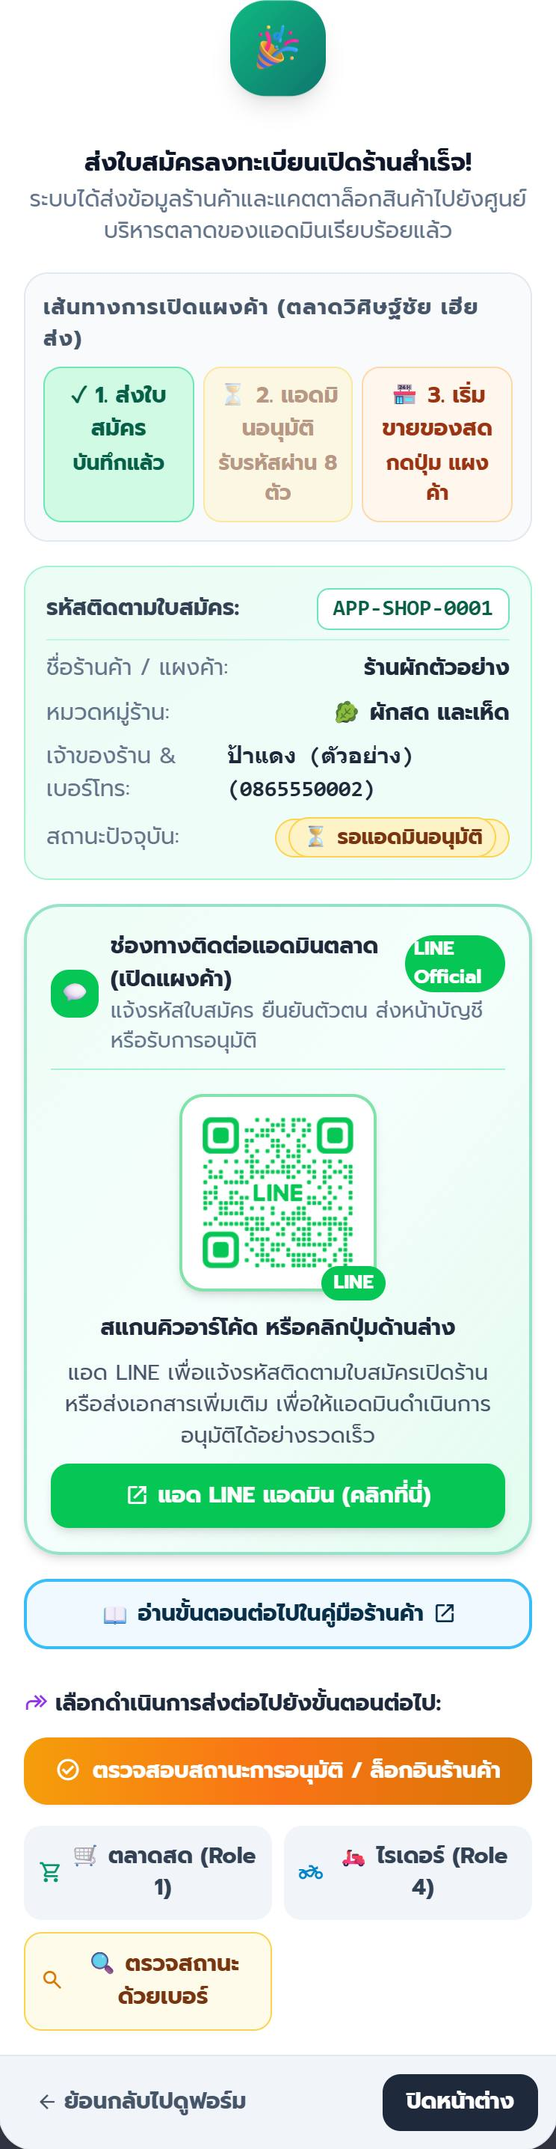
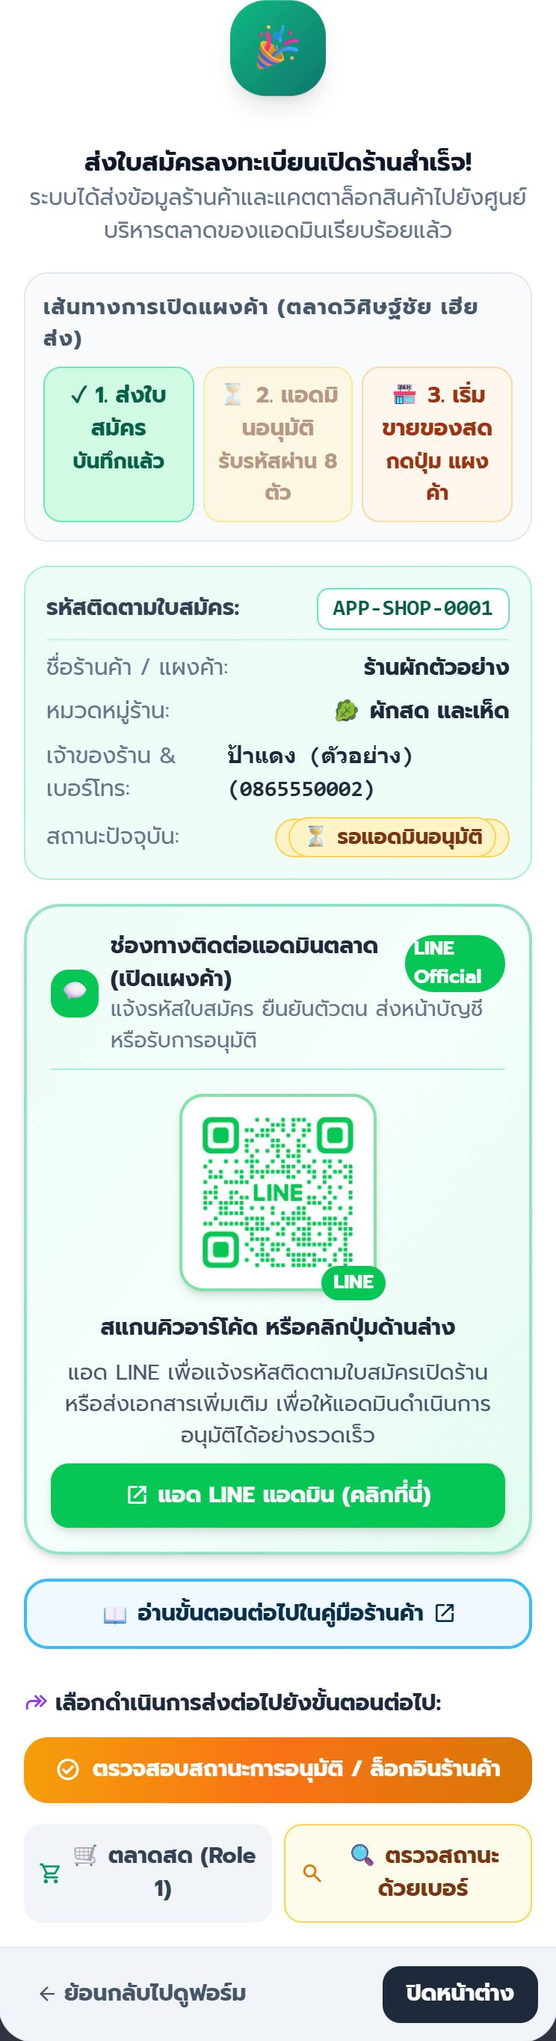
fix(money): price x qty everywhere, require merchant bank account
Owner decisions 2026-09-24:
- money used the unit price and forgot the quantity in many places:
  hub payout to shops (shops were underpaid), out-of-stock refunds
  (customer refunded 1 unit of 2), rider change envelope, receipt
  subtotal, tracking list. New orderItemLineTotal() = price x qty,
  used by all of them and by merchantStallItemsTotal()
- merchant form: main bank account is now required and checked
  (bank 10-15 digits, PromptPay 10/13/15) for new and edited shops
- remove the rider (Role 4) button from the shop success page
- guide-merchant.html updated; test order-money-qty.test.js (45)
- bump app.js?v=10.56

Changed region(s): [[0.0309, 0.0, 0.9583, 0.9971], [0.2164, 0.9659, 0.4328, 0.9971], [0.1237, 0.9659, 0.1855, 0.9971]]

diff --git a/app.js b/app.js
@@ -12946,8 +12946,7 @@ function renderTrackingScreen() {
         order.stalls.forEach(s => {
             (s.items || []).forEach(item => {
                 if (item.outOfStock) {
-                    const price = item.actualPrice !== undefined ? item.actualPrice : item.price;
-                    refundCashTotal += price;
+                    refundCashTotal += orderItemLineTotal(item);
                     outOfStockCount++;
                 }
             });
@@ -13028,13 +13027,14 @@ function renderTrackingScreen() {
         if (stall.items && stall.items.length > 0) {
             itemsListHtml = `<div class="mt-2 pt-2 border-t border-slate-100 space-y-1.5">`;
             stall.items.forEach(item => {
-                const itemPrice = item.actualPrice !== undefined ? item.actualPrice : item.price;
+                const itemPrice = orderItemLineTotal(item);   // ราคา x จำนวน
                 const isOOS = item.outOfStock || false;
                 itemsListHtml += `
                     <div class="flex items-center justify-between text-xs py-0.5 ${isOOS ? 'text-rose-700 bg-rose-50/50 px-2 py-1 rounded-lg' : 'text-slate-700'}">
                         <div class="flex items-center gap-1.5">
                             <span class="text-xs ${isOOS ? 'text-rose-500 font-bold' : 'text-emerald-600'}">${isOOS ? '✕' : '✓'}</span>
                             <span class="${isOOS ? 'line-through text-slate-400 font-medium' : 'font-semibold'}">${escapeHtml(item.name)}</span>
+                            <span class="text-slate-400">x${Number(item.qty || item.quantity || 1)}</span>
                             ${isOOS ? '<span class="text-[9px] bg-rose-100 text-rose-700 px-1.5 py-0.2 rounded font-black">ของหมด • คืนเงินสดใส่ซอง</span>' : ''}
                         </div>
                         <span class="font-bold ${isOOS ? 'text-rose-600' : 'text-slate-800'} text-xs">
@@ -13055,7 +13055,7 @@ function renderTrackingScreen() {
                         </div>
                         <div>
                             <div class="font-extrabold text-slate-800 text-xs leading-tight">${escapeHtml(stall.name)}</div>
-                            <div class="text-[10px] text-slate-400 mt-0.5 font-medium">จำนวน ${stall.itemsCount} รายการ ${oosItems.length > 0 ? `<span class="text-rose-600 font-bold">(หมด ${oosItems.length} คืน ฿${oosItems.reduce((s,i)=>s+(i.actualPrice||i.price),0)})</span>` : ''}</div>
+                            <div class="text-[10px] text-slate-400 mt-0.5 font-medium">จำนวน ${stall.itemsCount} รายการ ${oosItems.length > 0 ? `<span class="text-rose-600 font-bold">(หมด ${oosItems.length} คืน ฿${oosItems.reduce((s,i)=>s+orderItemLineTotal(i),0)})</span>` : ''}</div>
                         </div>
                     </div>
                     ${statusBadge}
@@ -14112,7 +14112,7 @@ function openReceiptModal() {
         let subtotal = 0;
         order.stalls.forEach(stall => {
             (stall.items || []).forEach(item => {
-                const price = item.actualPrice !== undefined ? item.actualPrice : item.price;
+                const price = orderItemLineTotal(item);   // ราคา x จำนวน (เดิมรวมแค่ราคาต่อหน่วย)
                 subtotal += price;
                 const isOOS = item.outOfStock || false;
                 itemsHtml += `
@@ -14419,10 +14419,17 @@ window.updateMerchantSettlementBadge = updateMerchantSettlementBadge;
 function merchantStallItemsTotal(items) {
     return (Array.isArray(items) ? items : []).reduce((sum, it) => {
         if (!it || it.outOfStock) return sum;
-        const p = Number(it.actualPrice !== undefined ? it.actualPrice : (it.price || 0));
-        const q = Number(it.qty || it.quantity || 1);
-        return sum + (p * q);
+        return sum + orderItemLineTotal(it);
     }, 0);
+}
+
+// เงินของสินค้า 1 บรรทัดในออเดอร์ = ราคาต่อหน่วย (หรือราคาชั่งจริง) x จำนวน
+// ใช้ทั้งตอนคิดยอดขาย และตอนคิดเงินคืนลูกค้าเมื่อของหมด (เดิมหลายจุดลืมคูณจำนวน: หมด 2 กำ คืนเงินแค่ 1 กำ)
+function orderItemLineTotal(it) {
+    if (!it) return 0;
+    const p = Number(it.actualPrice !== undefined ? it.actualPrice : (it.price || 0)) || 0;
+    const q = Number(it.qty || it.quantity || 1) || 1;
+    return p * q;
 }
 
 function renderMerchantSettlement() {
@@ -26035,7 +26042,7 @@ function renderHubPickingList() {
         order.stalls.forEach(stall => {
             (stall.items || []).forEach(item => {
                 if (item.outOfStock) {
-                    const price = item.actualPrice !== undefined ? item.actualPrice : item.price;
+                    const price = orderItemLineTotal(item);
                     refundCashTotal += price;
                     outOfStockItems.push({ stallName: stall.name, itemName: item.name, price: price });
                 }
@@ -26065,7 +26072,7 @@ function renderHubPickingList() {
                             </label>
                             <div class="flex items-center gap-1.5 shrink-0">
                                 ${isOutOfStock ? `
-                                    <span class="text-[9px] text-rose-700 bg-rose-100 border border-rose-200 px-2 py-0.5 rounded-full font-bold">⚠ หมด คืน ฿${actualPrice}</span>
+                                    <span class="text-[9px] text-rose-700 bg-rose-100 border border-rose-200 px-2 py-0.5 rounded-full font-bold">⚠ หมด คืน ฿${orderItemLineTotal(item)}</span>
                                     <button type="button" onclick="toggleHubItemOutOfStock(${sIdx}, ${iIdx})" class="px-2 py-0.5 bg-slate-100 hover:bg-slate-200 text-slate-700 rounded-lg text-[10px] font-bold active:scale-95 transition-all">กู้คืน</button>
                                 ` : `
                                     ${isPicked ? '<span class="text-[10px] text-emerald-700 bg-emerald-100 px-1.5 py-0.5 rounded-full font-bold">✓ พร้อม</span>' : '<span class="text-[10px] text-slate-400">รอหยิบ</span>'}
@@ -26278,7 +26285,7 @@ function toggleHubItemOutOfStock(stallIndex, itemIndex) {
     if (!item) return;
 
     item.outOfStock = !item.outOfStock;
-    const price = item.actualPrice !== undefined ? item.actualPrice : item.price;
+    const price = orderItemLineTotal(item);   // เงินทอนใส่ซอง = ราคา x จำนวน
 
     if (item.outOfStock) {
         item.picked = false;
@@ -26295,8 +26302,7 @@ function toggleHubItemOutOfStock(stallIndex, itemIndex) {
     state.activeOrder.stalls.forEach(s => {
         (s.items || []).forEach(it => {
             if (it.outOfStock) {
-                const pr = it.actualPrice !== undefined ? it.actualPrice : it.price;
-                refundCashTotal += pr;
+                refundCashTotal += orderItemLineTotal(it);
             }
         });
     });
@@ -26328,7 +26334,7 @@ function sendOutOfStockLineNotice() {
     if (order.stalls) {
         order.stalls.forEach(s => {
             (s.items || []).forEach(i => {
-                if (i.outOfStock) oosList.push(`${i.name} (฿${i.actualPrice !== undefined ? i.actualPrice : i.price})`);
+                if (i.outOfStock) oosList.push(`${i.name} x${i.qty || 1} (฿${orderItemLineTotal(i)})`);
             });
         });
     }
@@ -26468,7 +26474,7 @@ function goToRiderTrackingScreen() {
             state.activeOrder.stalls.forEach(s => {
                 (s.items || []).forEach(it => {
                     if (it.outOfStock) {
-                        refundTotal += (it.actualPrice !== undefined ? it.actualPrice : it.price);
+                        refundTotal += orderItemLineTotal(it);
                     }
                 });
             });
@@ -26579,7 +26585,7 @@ function renderHubSettlement() {
             const meta = (typeof findStallInfo === "function") ? findStallInfo(stall.stallId, stall.name) : {};
             const activeItems = (stall.items || []).filter(item => !item.outOfStock);
             const oosItems = (stall.items || []).filter(item => item.outOfStock);
-            const stallItemsTotal = activeItems.reduce((sum, item) => sum + (item.actualPrice !== undefined ? item.actualPrice : item.price), 0);
+            const stallItemsTotal = merchantStallItemsTotal(stall.items);
             const stallGP = Math.round(stallItemsTotal * (gpRate / 100));
             const stallPayout = Math.max(0, stallItemsTotal - stallGP);
             const stallPhone = meta.phone || "089-123-4567";
@@ -27283,7 +27289,7 @@ function renderRiderScreen() {
             const items = Array.isArray(s.items) ? s.items : Object.values(s.items || {});
             items.forEach(it => {
                 if (it && it.outOfStock) {
-                    refundCashTotal += (it.actualPrice !== undefined ? it.actualPrice : it.price) || 0;
+                    refundCashTotal += orderItemLineTotal(it);
                 }
             });
         });
@@ -29473,6 +29479,24 @@ function deleteMerchantCatalogRow(btn) {
     }
 }
 
+// ตรวจบัญชีหลักที่ 1 ของร้าน คืน null ถ้าใช้ได้ หรือ { focusId, message } ถ้าไม่ครบ/ผิดรูปแบบ
+// กติกาเดียวกับบัญชีไรเดอร์: พร้อมเพย์ = เบอร์ 10 หลัก / เลขบัตร 13 หลัก / e-Wallet 15 หลัก, ธนาคาร = ตัวเลข 10-15 หลัก
+function merchantBankAccountProblem(bankName, accountNoRaw, accountNameRaw) {
+    const accountNo = String(accountNoRaw || "").replace(/[-\s]/g, "");
+    const accountName = String(accountNameRaw || "").trim();
+    if (!accountNo) return { focusId: "m-bank-account-no", message: "⚠ กรุณากรอกเลขที่บัญชีรับเงิน (บัญชีหลักที่ 1)\n\nฮับจะโอนเงินค่าขายเข้าบัญชีนี้" };
+    const isPP = String(bankName || "").startsWith("พร้อมเพย์");
+    const okNo = /^\d+$/.test(accountNo) && (isPP ? [10, 13, 15].includes(accountNo.length) : (accountNo.length >= 10 && accountNo.length <= 15));
+    if (!okNo) {
+        return { focusId: "m-bank-account-no", message: isPP
+            ? "⚠ เลขพร้อมเพย์ต้องเป็นเบอร์มือถือ 10 หลัก หรือเลขบัตรประชาชน 13 หลัก"
+            : "⚠ เลขที่บัญชีธนาคารต้องเป็นตัวเลข 10-15 หลัก" };
+    }
+    if (!accountName) return { focusId: "m-bank-account-name", message: "⚠ กรุณากรอกชื่อบัญชี (ชื่อ-นามสกุลเจ้าของบัญชี ตามสมุดบัญชี)" };
+    return null;
+}
+window.merchantBankAccountProblem = merchantBankAccountProblem;
+
 async function saveMerchantStallData() {
     const submitBtn = document.getElementById("merchant-submit-footer-btn");
     const origSubmitHtml = submitBtn ? submitBtn.innerHTML : '<span class="material-symbols-outlined text-sm font-bold">save</span><span>บันทึกการแก้ไขข้อมูลร้านค้า 💾</span>';
@@ -29529,6 +29553,24 @@ async function saveMerchantStallData() {
         if (!stallName || !phone) {
             alert("กรุณากรอกข้อมูลสำคัญให้ครบถ้วน: ชื่อร้านค้า และเบอร์โทรศัพท์ผู้ติดต่อ");
             switchMerchantPortalTab("tab-info");
+            return;
+        }
+
+        // บัญชีรับเงินค่าขาย (บัญชีหลักที่ 1) ต้องครบและถูกรูปแบบ ไม่งั้นฮับโอนเงินให้ร้านไม่ได้ (เจ้าของตัดสินใจ 2026-09-24)
+        const bankProblem = merchantBankAccountProblem(
+            document.getElementById("m-bank-name")?.value || "",
+            document.getElementById("m-bank-account-no")?.value || "",
+            document.getElementById("m-bank-account-name")?.value || ""
+        );
+        if (bankProblem) {
+            alert(bankProblem.message);
+            switchMerchantPortalTab("tab-info");
+            const bad = document.getElementById(bankProblem.focusId);
+            if (bad) {
+                bad.scrollIntoView({ behavior: "smooth", block: "center" });
+                bad.focus();
+                bad.classList.add("border-rose-500", "ring-2", "ring-rose-400", "bg-rose-50");
+            }
             return;
         }
 

diff --git a/firebase-rules/tests/order-money-qty.test.js b/firebase-rules/tests/order-money-qty.test.js
@@ -1,0 +1,80 @@
+// ทดสอบงาน 2026-09-24 (หลังเจ้าของตัดสินใจ 3 ข้อ):
+// (ก) เงินของสินค้าต้องเป็น ราคา x จำนวน ทุกจุด: ยอดขายร้าน, เงินโอนให้ร้าน (ฮับ), เงินคืนลูกค้าเมื่อของหมด, ใบเสร็จ, หน้าติดตาม
+//     เดิมหลายจุดลืมคูณจำนวน: สั่ง 2 กำ หมด -> คืนเงินแค่ 1 กำ, ฮับโอนเงินให้ร้านขาดไป
+// (ข) ฟอร์มเปิดร้านบังคับกรอกบัญชีรับเงินหลัก (merchantBankAccountProblem)
+// (ค) หน้าส่งใบสมัครเปิดร้านสำเร็จไม่มีปุ่ม "ไรเดอร์ (Role 4)" แล้ว
+const fs = require("fs");
+const path = require("path");
+const vm = require("vm");
+const root = path.join(__dirname, "..", "..");
+const norm = s => s.replace(/\r\n/g, "\n");
+const appSrc = norm(fs.readFileSync(path.join(root, "app.js"), "utf8"));
+const htmlSrc = norm(fs.readFileSync(path.join(root, "index.html"), "utf8"));
+
+let fail = 0;
+const ok = (c, m) => { console.log((c ? "PASS " : "FAIL ") + m); if (!c) fail++; };
+function fn(name) {
+    const start = appSrc.indexOf("function " + name + "(");
+    if (start < 0) throw new Error("not found: " + name);
+    let i = appSrc.indexOf("{", start), d = 0;
+    for (; i < appSrc.length; i++) { if (appSrc[i] === "{") d++; else if (appSrc[i] === "}" && --d === 0) break; }
+    return appSrc.slice(start, i + 1);
+}
+const ctx = {};
+vm.createContext(ctx);
+["orderItemLineTotal", "merchantStallItemsTotal", "merchantBankAccountProblem"].forEach(n => vm.runInContext(fn(n), ctx));
+
+console.log("== (ก) ราคา x จำนวน ==");
+const line = ctx.orderItemLineTotal;
+ok(line({ price: 20, qty: 2 }) === 40, "ผักบุ้ง 20 x 2 = 40");
+ok(line({ price: 20 }) === 20, "ไม่มีจำนวน = 1 หน่วย");
+ok(line({ price: 100, actualPrice: 110, qty: 2 }) === 220, "ใช้ราคาชั่งจริงต่อหน่วยถ้ามี");
+ok(line({ price: "25", quantity: "3" }) === 75, "รับค่าที่เป็นตัวหนังสือได้");
+ok(line(null) === 0 && line({}) === 0, "ข้อมูลว่างไม่พัง");
+ok(ctx.merchantStallItemsTotal([{ price: 20, qty: 2 }, { price: 25, qty: 2, outOfStock: true }]) === 40, "ยอดขายร้านไม่นับของหมด");
+
+const bodies = {
+    "renderHubSettlement (ฮับโอนเงินให้ร้าน)": fn("renderHubSettlement"),
+    "goToRiderTrackingScreen (เงินคืน)": fn("goToRiderTrackingScreen"),
+    "renderRiderScreen (ซองเงินทอนของไรเดอร์)": fn("renderRiderScreen"),
+    "renderTrackingScreen (หน้าติดตามลูกค้า)": fn("renderTrackingScreen"),
+    "renderHubPickingList (หน้าหยิบของฮับ)": fn("renderHubPickingList"),
+    "toggleHubItemOutOfStock (ฮับแจ้งของหมด)": fn("toggleHubItemOutOfStock"),
+    "sendOutOfStockLineNotice (ข้อความ LINE ของหมด)": fn("sendOutOfStockLineNotice"),
+    "openReceiptModal (ใบเสร็จ)": fn("openReceiptModal")
+};
+Object.entries(bodies).forEach(([label, body]) => {
+    ok(/orderItemLineTotal\(|merchantStallItemsTotal\(/.test(body), `${label} ใช้ตัวคิดเงิน ราคา x จำนวน`);
+    // รูปแบบเก่าที่คิดเงินจากราคาต่อหน่วยตรง ๆ แล้วบวกเข้ายอด/เงินคืน
+    // "+= price" ใช้ได้เฉพาะเมื่อ price มาจาก orderItemLineTotal (ราคา x จำนวน) แล้ว
+    const addsVar = /(refundCashTotal|refundTotal|subtotal)\s*\+=\s*(price|pr)\s*;/.test(body);
+    const varIsLineTotal = /const (price|pr) = orderItemLineTotal\(/.test(body);
+    ok(!addsVar || varIsLineTotal, `${label} ไม่บวกราคาต่อหน่วยเข้ายอดเงินแบบเดิม`);
+    ok(!/refund\w*\s*\+=\s*\((it|item|i)\.actualPrice !== undefined/.test(body), `${label} ไม่คิดเงินคืนจากราคาต่อหน่วย`);
+});
+ok(!/oosItems\.reduce\(\(s,i\)=>s\+\(i\.actualPrice\|\|i\.price\),0\)/.test(appSrc), "ป้ายเงินคืนในหน้าติดตามคูณจำนวนแล้ว");
+ok(/const stallItemsTotal = merchantStallItemsTotal\(stall\.items\);/.test(fn("renderHubSettlement")), "ยอดโอนให้ร้านในหน้าฮับใช้ merchantStallItemsTotal");
+
+console.log("== (ข) บังคับบัญชีรับเงินของร้าน ==");
+const bank = ctx.merchantBankAccountProblem;
+ok(bank("กสิกรไทย (KBank)", "", "ป้าแดง").focusId === "m-bank-account-no", "ไม่กรอกเลขบัญชี -> ไม่ผ่าน ชี้ไปช่องเลขบัญชี");
+ok(bank("กสิกรไทย (KBank)", "12345", "ป้าแดง").focusId === "m-bank-account-no", "เลขบัญชีสั้นเกิน -> ไม่ผ่าน");
+ok(bank("กสิกรไทย (KBank)", "123-4-56789-0", "") .focusId === "m-bank-account-name", "ไม่กรอกชื่อบัญชี -> ไม่ผ่าน ชี้ไปช่องชื่อบัญชี");
+ok(bank("กสิกรไทย (KBank)", "123-4-56789-0", "นางแดง ตัวอย่าง") === null, "เลขบัญชีธนาคาร 10 หลัก (มีขีด) + ชื่อ -> ผ่าน");
+ok(bank("พร้อมเพย์ (PromptPay)", "0812345678", "นางแดง") === null, "พร้อมเพย์เบอร์มือถือ 10 หลัก -> ผ่าน");
+ok(bank("พร้อมเพย์ (PromptPay)", "1234567890123", "นางแดง") === null, "พร้อมเพย์เลขบัตร 13 หลัก -> ผ่าน");
+ok(bank("พร้อมเพย์ (PromptPay)", "12345678901", "นางแดง") !== null, "พร้อมเพย์ 11 หลัก -> ไม่ผ่าน");
+ok(bank("กสิกรไทย (KBank)", "12345abcde", "นางแดง") !== null, "เลขบัญชีมีตัวอักษร -> ไม่ผ่าน");
+const save = fn("saveMerchantStallData");
+const iBank = save.indexOf("merchantBankAccountProblem(");
+ok(iBank > 0 && iBank < save.indexOf("if (isNewRegistration)"), "saveMerchantStallData ตรวจบัญชีก่อนบันทึก (ทั้งสมัครใหม่และแก้ไข)");
+ok(/m-bank-account-no/.test(save.slice(iBank, iBank + 400)) && /m-bank-account-name/.test(save.slice(iBank, iBank + 400)), "อ่านค่าจากช่องบัญชีหลักที่ 1 จริง");
+
+console.log("== (ค) ไม่มีปุ่มไรเดอร์ในหน้าส่งใบสมัครร้านสำเร็จ ==");
+const succ = htmlSrc.slice(htmlSrc.indexOf('id="merchant-portal-step-success"'), htmlSrc.indexOf("MERCHANT PREVIEW MODAL"));
+ok(succ.length > 1000, "เจอหน้าส่งใบสมัครสำเร็จ");
+ok(!/switchRole\('rider'\)/.test(succ) && !/<span>🛵 ไรเดอร์ \(Role 4\)<\/span>/.test(succ), "ไม่มีปุ่มสลับไปไรเดอร์แล้ว");
+ok(/openStatusCheckModal\('merchant'\)/.test(succ), "ปุ่มตรวจสถานะด้วยเบอร์ยังอยู่");
+
+console.log(fail ? `\n${fail} FAILED` : "\nALL PASSED");
+process.exit(fail ? 1 : 0);

diff --git a/guide-merchant.html b/guide-merchant.html
@@ -66,7 +66,7 @@
             <ul class="check">
                 <li><span class="box"></span><span>ชื่อร้าน และร้านขายอะไรเป็นหลัก</span></li>
                 <li><span class="box"></span><span>ชื่อ เบอร์โทร และ LINE ของผู้ติดต่อหลัก 1 คน (มีคนที่ 2 ก็ใส่ได้)</span></li>
-                <li><span class="box"></span><span><strong>บัญชีธนาคารรับเงินค่าขาย</strong> ชื่อธนาคาร เลขบัญชี และชื่อบัญชี</span></li>
+                <li><span class="box"></span><span><strong>บัญชีธนาคารรับเงินค่าขาย</strong> ชื่อธนาคาร เลขบัญชี และชื่อบัญชี <span class="tag req">ต้องมี</span></span></li>
                 <li><span class="box"></span><span><strong>สินค้าเด่น</strong> สูงสุด 10 อย่าง: ชื่อ หน่วยขาย (กก. กำ แพ็ก ฯลฯ) และราคา</span></li>
                 <li><span class="box"></span><span>สินค้าอื่น ๆ เพิ่มได้อีก 50 อย่าง <span class="tag opt">ไม่บังคับ</span></span></li>
             </ul>
@@ -74,7 +74,7 @@
 
         <!-- ================= ส่วนที่ 1 ================= -->
         <h2 class="part" id="part1">ส่วนที่ 1: กรอกใบสมัครเปิดร้านทีละข้อ</h2>
-        <p>ช่องที่มีดอกจันสีแดง <strong style="color:#d63447">*</strong> ต้องกรอกให้ครบ แม้บางช่องระบบจะยอมให้ส่งได้ แต่ถ้าข้อมูลไม่ครบ เจ้าของอาจอนุมัติให้ไม่ได้</p>
+        <p>ช่องที่มีดอกจันสีแดง <strong style="color:#d63447">*</strong> ต้องกรอกให้ครบ ถ้าข้อมูลไม่ครบ เจ้าของอาจอนุมัติให้ไม่ได้</p>
 
         <div class="step">
             <div class="step-head"><span class="num">1</span><h3>เปิดหน้าสมัคร</h3></div>
@@ -123,10 +123,10 @@
 
         <div class="step">
             <div class="step-head"><span class="num">5</span><h3>ช่องทางการรับชำระเงิน</h3></div>
-            <p>ฮับจะโอนเงินค่าขายของคุณเข้าบัญชีนี้ <strong>กรอกให้ถูกทุกตัว</strong> ถ้าผิด จะรับเงินไม่ได้</p>
+            <p>ฮับจะโอนเงินค่าขายของคุณเข้าบัญชีนี้ <strong>บัญชีหลักที่ 1 ต้องกรอก</strong> ถ้าไม่กรอก ระบบจะไม่ยอมส่งใบสมัคร และต้องกรอกให้ถูกทุกตัว ถ้าผิด จะรับเงินไม่ได้</p>
             <ol>
                 <li><strong>ธนาคาร</strong>: กดแล้วเลือกธนาคารของคุณ หรือพร้อมเพย์</li>
-                <li><strong>เลขที่บัญชี</strong>: พิมพ์ตามสมุดบัญชี</li>
+                <li><strong>เลขที่บัญชี</strong>: พิมพ์ตามสมุดบัญชี (ตัวเลข 10-15 หลัก มีขีดหรือไม่มีก็ได้) ถ้าเลือกพร้อมเพย์ ใส่เบอร์มือถือ 10 หลัก หรือเลขบัตรประชาชน 13 หลัก</li>
                 <li><strong>ชื่อบัญชี</strong>: ชื่อ-นามสกุลเจ้าของบัญชี ตามสมุดบัญชี</li>
             </ol>
             <p><strong>บัญชีสำรองที่ 2</strong> ใส่หรือไม่ใส่ก็ได้</p>
@@ -169,6 +169,10 @@
                 <thead><tr><th>ข้อความที่เห็น</th><th>ต้องทำอะไร</th></tr></thead>
                 <tbody>
                     <tr><td>กรุณากรอกข้อมูลสำคัญให้ครบถ้วน: ชื่อร้านค้า และเบอร์โทรศัพท์ผู้ติดต่อ</td><td>กลับไปหน้า 1 ใส่ชื่อร้าน และเบอร์โทรของผู้ติดต่อคนที่ 1</td></tr>
+                    <tr><td>กรุณากรอกเลขที่บัญชีรับเงิน (บัญชีหลักที่ 1)</td><td>กลับไปหน้า 1 ช่องที่ต้องแก้จะขึ้นกรอบแดง ใส่เลขบัญชีตามสมุดบัญชี</td></tr>
+                    <tr><td>เลขที่บัญชีธนาคารต้องเป็นตัวเลข 10-15 หลัก</td><td>เช็กเลขบัญชีอีกครั้ง ใส่แต่ตัวเลข</td></tr>
+                    <tr><td>เลขพร้อมเพย์ต้องเป็นเบอร์มือถือ 10 หลัก หรือเลขบัตรประชาชน 13 หลัก</td><td>เช็กเลขพร้อมเพย์อีกครั้ง</td></tr>
+                    <tr><td>กรุณากรอกชื่อบัญชี</td><td>ใส่ชื่อ-นามสกุลเจ้าของบัญชี ตามสมุดบัญชี</td></tr>
                     <tr><td>รายการสินค้า "..." ซ้ำกับสินค้า Highlight</td><td>ช่องที่ซ้ำจะขึ้นกรอบแดง ลบแถวนั้น หรือเปลี่ยนชื่อสินค้า</td></tr>
                 </tbody>
             </table>
@@ -180,7 +184,7 @@
         <div class="step">
             <div class="step-head"><span class="num">1</span><h3>จดรหัสร้านของคุณไว้</h3></div>
             <p>ส่งสำเร็จแล้วจะเห็นหน้า <strong>"ส่งใบสมัครลงทะเบียนเปิดร้านสำเร็จ!"</strong> และ <strong>รหัสติดตามใบสมัคร</strong> (ในรูปคือ APP-SHOP-0001)</p>
-            <figure class="narrow"><img src="images/guide/merchant/m11-success.jpg" width="744" height="2746" loading="lazy" alt="หน้าส่งใบสมัครสำเร็จ พร้อมรหัส APP-SHOP-0001 และช่องทาง LINE"></figure>
+            <figure class="narrow"><img src="images/guide/merchant/m11-success.jpg" width="744" height="2728" loading="lazy" alt="หน้าส่งใบสมัครสำเร็จ พร้อมรหัส APP-SHOP-0001 และช่องทาง LINE"></figure>
             <div class="warn"><p><strong>จดรหัสนี้ในกระดาษ หรือถ่ายรูปหน้าจอเก็บไว้</strong> รหัสนี้คือ <strong>รหัสร้าน</strong> ที่ใช้เข้าสู่ระบบ</p></div>
         </div>
         <div class="step">

diff --git a/firebase-rules/tests/guide-merchant.test.js b/firebase-rules/tests/guide-merchant.test.js
@@ -28,6 +28,10 @@ console.log("== ข้อความที่คู่มือยกมา ต
 [
     "กรุณากรอกข้อมูลสำคัญให้ครบถ้วน: ชื่อร้านค้า และเบอร์โทรศัพท์ผู้ติดต่อ",
     "ซ้ำกับสินค้า Highlight",
+    "กรุณากรอกเลขที่บัญชีรับเงิน (บัญชีหลักที่ 1)",
+    "เลขที่บัญชีธนาคารต้องเป็นตัวเลข 10-15 หลัก",
+    "เลขพร้อมเพย์ต้องเป็นเบอร์มือถือ 10 หลัก หรือเลขบัตรประชาชน 13 หลัก",
+    "กรุณากรอกชื่อบัญชี",
     "รหัสร้านหรือรหัสผ่านไม่ถูกต้อง",
     "ใส่รหัสผิดหลายครั้ง กรุณารออีก",
     "ใบสมัครเปิดร้านของคุณยังรอเจ้าของอนุมัติ",
@@ -77,7 +81,14 @@ const fnStart = appSrc.indexOf("function merchantStallItemsTotal(");
 ok(fnStart >= 0, "มีฟังก์ชัน merchantStallItemsTotal");
 let i = appSrc.indexOf("{", fnStart), d = 0;
 for (; i < appSrc.length; i++) { if (appSrc[i] === "{") d++; else if (appSrc[i] === "}" && --d === 0) break; }
-const ctx = {}; vm.createContext(ctx); vm.runInContext(appSrc.slice(fnStart, i + 1), ctx);
+const ctx = {}; vm.createContext(ctx);
+{   // merchantStallItemsTotal ใช้ orderItemLineTotal (ราคา x จำนวน) ต้องโหลดคู่กัน
+    const s2 = appSrc.indexOf("function orderItemLineTotal(");
+    let j = appSrc.indexOf("{", s2), d2 = 0;
+    for (; j < appSrc.length; j++) { if (appSrc[j] === "{") d2++; else if (appSrc[j] === "}" && --d2 === 0) break; }
+    vm.runInContext(appSrc.slice(s2, j + 1), ctx);
+}
+vm.runInContext(appSrc.slice(fnStart, i + 1), ctx);
 const total = ctx.merchantStallItemsTotal;
 ok(total([{ price: 20, qty: 2 }, { price: 25, qty: 1 }, { price: 25, qty: 1 }]) === 90, "ผักบุ้ง 20x2 + 25 + 25 = 90");
 ok(total([{ price: 20, qty: 2 }, { price: 25, qty: 1, outOfStock: true }]) === 40, "ของที่แจ้งหมดไม่นับเงิน");

diff --git a/index.html b/index.html
@@ -4798,11 +4798,7 @@
                                 <span class="material-symbols-outlined text-sm text-amber-600">inventory_2</span>
                                 <span>📦 ศูนย์ฮับ (Role 2)</span>
                             </button>
-                            <button type="button" onclick="closeMerchantPortalModal(); switchRole('rider');"
-                                class="p-2.5 bg-slate-100 hover:bg-slate-200 text-slate-700 font-bold rounded-xl flex items-center justify-center gap-1 active:scale-95 transition-all">
-                                <span class="material-symbols-outlined text-sm text-sky-600">two_wheeler</span>
-                                <span>🛵 ไรเดอร์ (Role 4)</span>
-                            </button>
+                            <!-- ปุ่ม "ไรเดอร์ (Role 4)" เอาออกแล้ว (เจ้าของตัดสินใจ 2026-09-24): ไม่เกี่ยวกับผู้สมัครเปิดร้าน -->
                             <button type="button"
                                 onclick="closeMerchantPortalModal(); openStatusCheckModal('merchant');"
                                 class="p-2.5 bg-amber-50 hover:bg-amber-100 text-amber-900 border border-amber-300 font-bold rounded-xl flex items-center justify-center gap-1 active:scale-95 transition-all">
@@ -7381,7 +7377,7 @@
     <!-- Firebase Config & Init -->
     <script src="firebase-config.js?v=10.24_owner_auth"></script>
     <!-- App Logic -->
-    <script src="app.js?v=10.55_merchant_guide"></script>
+    <script src="app.js?v=10.56_bank_required_qty_money"></script>
 </body>
 
 </html>

diff --git a/CLAUDE.md b/CLAUDE.md
@@ -274,6 +274,12 @@ Problem found 2026-09-21: anyone can write text into the shared database (applic
 - **Also fixed (leftovers of 5r, stall numbers removed):** the success step said "รับรหัส 6 หลัก" (now "รับรหัสผ่าน 8 ตัว"), "ปุ่ม 3. แผงค้า" (now "กดปุ่ม แผงค้า"), "หมายเลขแผง & หมวดหมู่" (now "หมวดหมู่ร้าน", shows the category only); a lone "-" (new stalls store `stallNumber: "-"`) no longer shows in the merchant header pill, the express sender badge/name, the "แผงค้าของฉัน" line, the status box, or the header "จัดการ" pill (shows the shop name instead).
 - Test `firebase-rules/tests/guide-merchant.test.js` (85 checks): quoted buttons/messages exist, images exist, links hit real anchors in a new tab, numbers match the code (10 highlights, 50 more, 8-char password, 5 tries / 5 min lock also for merchants, GP example), the old "6 หลัก" text is gone, and `merchantStallItemsTotal` gives 90 for 20x2+25+25, skips out-of-stock items, uses `actualPrice`, and is used in all 3 places.
 
+## 💰 5x. Owner decisions 2026-09-24: price x qty everywhere, bank account required, no rider button (code `app.js?v=10.56_bank_required_qty_money`; on hsong-test, NOT pushed to production yet)
+- **(1) Owner: "unit price must follow the weighed weight".** Investigation first: the hub's weigh box in `renderHubPickingList` only shows when `item.hasScale` is true, and NOTHING ever sets `hasScale` - so the weighing feature has never appeared for real orders. The weight-based feature itself is NOT built yet (needs owner decisions on over/under weight, see the hand-off). What WAS fixed now, because it is plainly wrong money: many places used the unit price and forgot the quantity. New helper `orderItemLineTotal(it)` = (`actualPrice` if set, else `price`) x `qty`; `merchantStallItemsTotal` uses it. Now used by: hub vendor payout in `renderHubSettlement` (shops were UNDERPAID when qty > 1 - it is the "โอนเคลียร์เงิน (PromptPay)" amount), out-of-stock refunds in `goToRiderTrackingScreen`, `renderRiderScreen` (rider's change envelope), `renderTrackingScreen` (+ the stall "หมด ... คืน ฿" label), `renderHubPickingList`, `toggleHubItemOutOfStock` toast, `sendOutOfStockLineNotice`, the customer receipt subtotal (`openReceiptModal`), and the customer's tracking item list (now shows "xN" and the line total).
+- **(2) Bank account required for merchants:** `merchantBankAccountProblem(bankName, no, name)` (same number rules as riders: bank 10-15 digits, PromptPay 10/13/15) runs in `saveMerchantStallData` right after the name/phone check, for BOTH new applications and edits; on failure it alerts, switches to page 1, focuses the field and gives it a red border. Consequence: an existing stall without a valid main account (e.g. the owner's test stall `APP-SHOP-6758` if it has none) cannot save edits until the account is filled - intended. The merchant guide says the account is required and lists the new messages.
+- **(3)** Removed the "🛵 ไรเดอร์ (Role 4)" button from the merchant success step.
+- Test: `firebase-rules/tests/order-money-qty.test.js` (45 checks: line totals, every money function above uses the helper and no longer adds a bare unit price, bank rules incl. focus ids and that the check runs before saving, rider button gone). Verified in the offline sandbox: submitting with an empty account shows the message, saves nothing, returns to page 1 with the field focused/red, and re-enables the submit button.
+
 ## ⚠ 6. Known Constraints (update when resolved)
 - (Resolved) Personal data (ID numbers, addresses, driver-license photos in `rider_documents/<riderId>`, `rider_private`) is owner-read only since the owner-auth release.
 - (Resolved 2026-09-20) Admin/hub PINs and the admin "test mode" quick login were removed; see section 5b.
